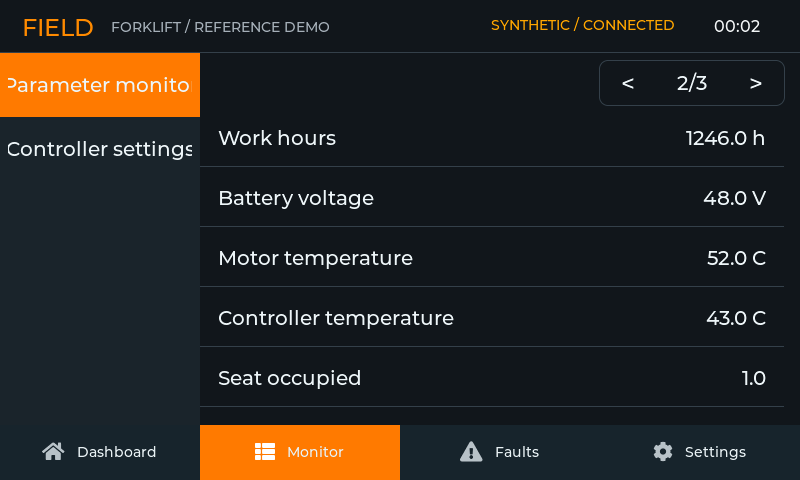
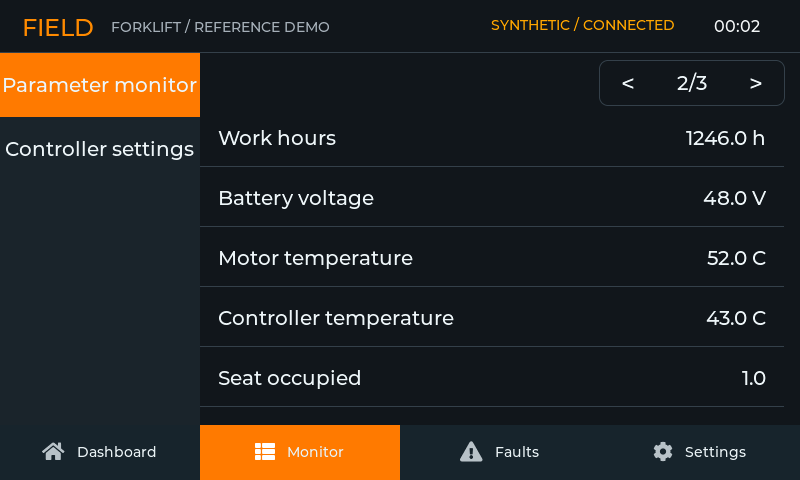
fix: keep reference labels readable on 800x480

Changed region(s): [[0.0, 0.2812, 0.25, 0.3438], [0.0, 0.1562, 0.25, 0.1875]]

diff --git a/ui/settings.c b/ui/settings.c
@@ -349,7 +349,7 @@ void demo_settings_create(demo_ui_t *u)
     lv_obj_set_pos(side_advanced, 0, 64);
     lv_obj_set_size(side_advanced, 200, 64);
     lv_obj_t *side_label =
-        demo_text(u, side_advanced, 18, 0, DEMO_TXT_ADMIN_SETTINGS, &lv_font_montserrat_16, 0xffffff);
+        demo_text(u, side_advanced, 4, 0, DEMO_TXT_ADMIN_SETTINGS, &lv_font_montserrat_14, 0xffffff);
     lv_obj_set_width(side_label, 176);
     lv_label_set_long_mode(side_label, LV_LABEL_LONG_SCROLL_CIRCULAR);
     lv_obj_set_style_text_align(side_label, LV_TEXT_ALIGN_CENTER, 0);
@@ -525,7 +525,7 @@ void demo_settings_update(demo_ui_t *u)
     for (unsigned i = 0; i < sizeof(dynamic) / sizeof(dynamic[0]); ++i)
         lv_obj_set_style_text_font(dynamic[i], font, 0);
     for (unsigned i = 0; i < 2; ++i)
-        lv_obj_set_style_text_font(lv_obj_get_child(u->settings_menu[i], 0), font, 0);
+        meter_i18n_apply_font(lv_obj_get_child(u->settings_menu[i], 0), u->view.language, METER_FONT_LABEL);
     for (unsigned i = 0; i < 4; ++i)
     {
         lv_obj_set_style_text_font(u->admin_value_labels[i], font, 0);

diff --git a/ui/monitor.c b/ui/monitor.c
@@ -94,8 +94,8 @@ void demo_monitor_create(demo_ui_t *u)
         demo_theme_menu_button(modes[i], i == 0);
         lv_obj_set_pos(modes[i], 0, (int)i * 64);
         lv_obj_set_size(modes[i], 200, 64);
-        lv_obj_t *label = demo_text(u, modes[i], 8, 0, mode_ids[i], &lv_font_montserrat_14, 0xedf5f8);
-        lv_obj_set_width(label, 184);
+        lv_obj_t *label = demo_text(u, modes[i], 2, 0, mode_ids[i], &lv_font_montserrat_14, 0xedf5f8);
+        lv_obj_set_width(label, 196);
         lv_obj_set_style_text_align(label, LV_TEXT_ALIGN_CENTER, 0);
         if (i == 0)
             u->monitor_mode_label = label;
